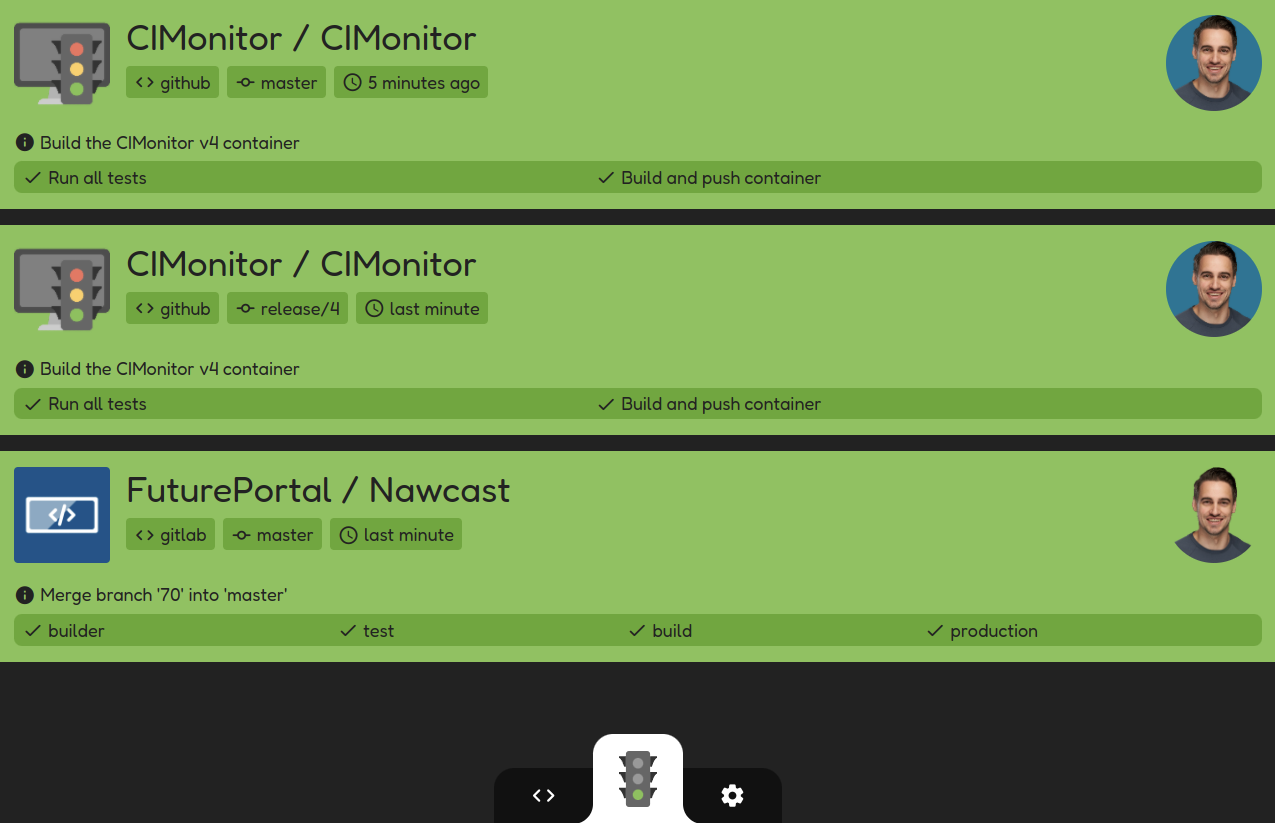
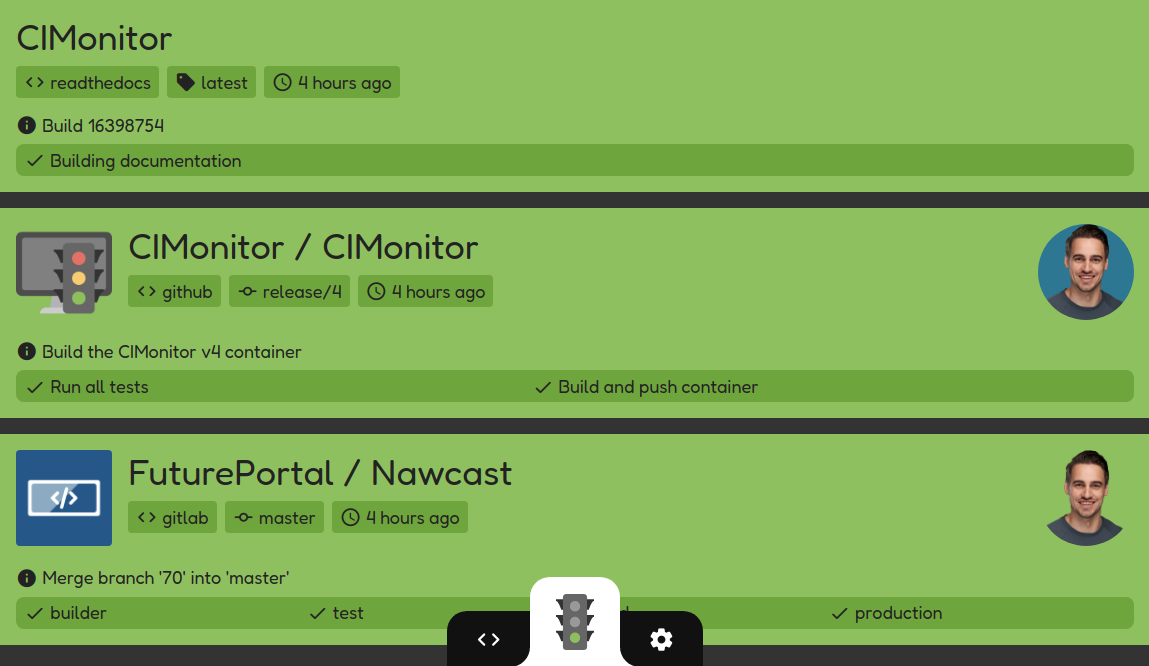
Improve version 4 documentation

diff --git a/frontend/App/Statuses/Processes/Processes.tsx b/frontend/App/Statuses/Processes/Processes.tsx
@@ -1,3 +1,5 @@
+import { ReactElement } from 'react';
+
 import { Details, Process, Stage, Stages, StageWrapper, Step } from './Processes.style';
 
 import Icon from '/frontend/components/Icon';
@@ -22,10 +24,14 @@ const getStateIcon = (state: StepState | State) => {
     return icons[state] || 'info';
 };
 
-const Processes = ({ processes }: Props) => (
-    <>
-        {processes &&
-            processes.map((process) => (
+const Processes = ({ processes }: Props): ReactElement => {
+    if (processes.length === 0) {
+        return null;
+    }
+
+    return (
+        <>
+            {processes.map((process) => (
                 <Process key={process.id} state={process.state}>
                     <Details>
                         <Icon icon="info" /> {process.title}
@@ -52,7 +58,8 @@ const Processes = ({ processes }: Props) => (
                     </Stages>
                 </Process>
             ))}
-    </>
-);
+        </>
+    );
+};
 
 export default Processes;

diff --git a/README.md b/README.md
@@ -1,4 +1,4 @@
-# [![image](https://avatars2.githubusercontent.com/u/18479455?s=60&v=4)](https://cimonitor.readthedocs.io) CIMonitor
+# [![image](https://avatars2.githubusercontent.com/u/18479455?s=60&v=4)](https://cimonitor.readthedocs.io) CIMonitor v4
 
 [![release](https://img.shields.io/github/release/CIMonitor/CIMonitor.svg)](https://github.com/CIMonitor/CIMonitor/releases)
 [![MIT](https://img.shields.io/github/license/CIMonitor/CIMonitor.svg)](https://github.com/CIMonitor/CIMonitor/)
@@ -10,14 +10,25 @@
 CIMonitor is a place where all your CI statuses come together. Check if all tests have passed, and if
 deployments are successful. All in one overview. This is all done via **webhooks**, so no complex configuration.
 
-The time that deployments were scary is over, lets make them FUN!
+## Supported webhooks
+
+-   [GitHub](https://cimonitor.readthedocs.io/en/latest/webhook/github/)
+-   [GitLab](https://cimonitor.readthedocs.io/en/latest/webhook/gitlab/)
+-   [Read the Docs](https://cimonitor.readthedocs.io/en/latest/webhook/readthedocs/)
+
+## Example
 
 ![Dashboard demonstration](docs/images/dashboard.png)
 
-## Running CIMonitor
+# :warning: version 3 :warning:
+
+Are you running version 3, and are not ready to switch to version 4 yet? You can upgrade to version 3.7.2 to suppress
+the update notification on the dashboard.
+
+# Getting started
 
 The easiest and quickest way to run CIMonitor is via docker. Running the command below will
-start CIMonitor on [localhost:3030](http://localhost:3030):
+start CIMonitor on [localhost:3030](http://localhost:3030), or you can check one of the
 
 ```shell
 docker run \
@@ -27,30 +38,16 @@ docker run \
     cimonitor/server:4.0.0
 ```
 
-It is possible to run CIMonitor on Kubernetes too of course. See the docs how to do that.
+## Ways to run CIMonitor
 
-## Connecting to GitHub / GitLab
+-   [docker](https://cimonitor.readthedocs.io/en/latest/run/docker/)
+-   [kubernetes](https://cimonitor.readthedocs.io/en/latest/run/kubernetes/)
+-   [locally wit nodejs](https://cimonitor.readthedocs.io/en/latest/run/locally/)
 
-CIMonitor is gathering its data from GitHub and GitLab webhooks. Those are VERY easy to configure. All you need is a
-running CIMonitor URL. In the images below you can see how it's done.
-
-### GitHub
-
-Add webhook: `<your_cimonitor_url>/webhook/github`.
-
-![Add GitHub webhook demonstration](docs/images/add-github-webhook.gif)
-
-### GitLab
-
-Add webhook: `<your_cimonitor_url>/webhook/gitlab`.
-
-![Add GitLab webhook demonstration](docs/images/add-gitlab-webhook.gif)
-
-## Development
+# Development
 
 To start development, run the following commands on your terminal:
 
--   `make`: See all availabe make commands.
--   `make init`: The first time you want to run the project locally.
+-   `make`: See all available make commands.
+-   `make init`: Set up the project for local development (required to run locally).
 -   `make start`: Run the development server.
--   `make production`: Build and run a production build of the project.

diff --git a/docs/webhook/readthedocs.md b/docs/webhook/readthedocs.md
@@ -1,0 +1,16 @@
+# Read the Docs
+
+![Read the Docs status example](../images/status/readthedocs.png)
+
+## Adding webhook
+
+On Read the Docs, go to your project admin of the project you want to see statuses for. Go to the webhook page. here
+you can add your webhook.
+
+-   Enter your CIMonitor URL: `<your_cimonitor_url>/webhook/readthedocs`
+-   Enable all events (build:triggered, build:failed, and build:passed)
+-   Leave the default JSON. Note: changing the json will break your status.
+
+![Add Read the Docs webhook screenshot](../images/add-readthedocs-webhook.png)
+
+Click save. All new builds should not become visible on your CIMonitor.
